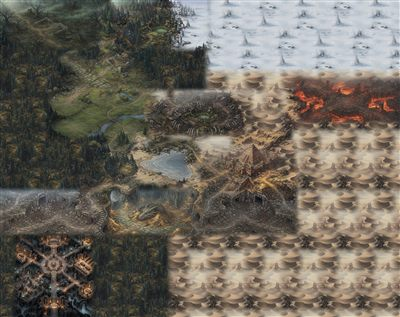
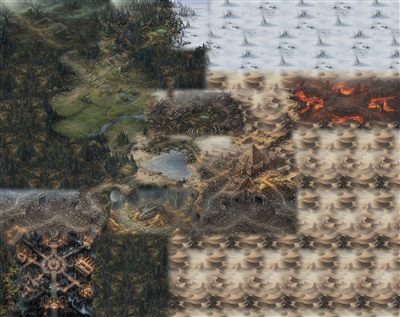
黑暗大陸：低語墓窟接縫 AI 補畫完成（兩道往下的石階接礦坑上層），20261020f
- 貼上使用者補好的接縫 15～18（對齊 0,0），大地圖圖檔 ?v=9
- 依新畫的石階重標兩個出口的可走格子，墓園左緣改成不能走（新畫的岩壁）
- 更新 ARCHITECTURE.md 第 67 節、HANDOFF.md

Changed region(s): [[0.0, 0.7098, 0.27, 0.9937], [0.21, 0.795, 0.27, 0.8801], [0.21, 0.8801, 0.27, 0.9653]]

diff --git a/屠龍勇者/index.html b/屠龍勇者/index.html
@@ -8,8 +8,8 @@
 <title>黑暗大陸</title>
 <link rel="manifest" href="manifest.json">
 <meta name="theme-color" content="#12100c">
-<link rel="icon" type="image/png" sizes="192x192" href="images/icon-192.png?v=20261020e">
-<link rel="apple-touch-icon" href="images/apple-touch-icon.png?v=20261020e">
+<link rel="icon" type="image/png" sizes="192x192" href="images/icon-192.png?v=20261020f">
+<link rel="apple-touch-icon" href="images/apple-touch-icon.png?v=20261020f">
 <meta name="apple-mobile-web-app-capable" content="yes">
 <meta name="mobile-web-app-capable" content="yes">
 <meta name="apple-mobile-web-app-status-bar-style" content="black-translucent">
@@ -67,7 +67,7 @@
     /* 標題 */
     /* 標題畫面＝使用者提供的「黑暗大陸」封面（images/cover.jpg，1000×1490，圖上已有標題字）；按鈕疊在下方 */
     #screen-title { align-items: center; justify-content: flex-end; text-align: center; padding: 24px 16px calc(20px + env(safe-area-inset-bottom)); gap: 10px;
-        background: url(images/cover.jpg?v=20261020e) center top / contain no-repeat, #000; }   /* contain：整張封面一定看得到（2026-10-12 使用者回報人物被裁掉） */
+        background: url(images/cover.jpg?v=20261020f) center top / contain no-repeat, #000; }   /* contain：整張封面一定看得到（2026-10-12 使用者回報人物被裁掉） */
     .sr-only { position: absolute; width: 1px; height: 1px; overflow: hidden; clip: rect(0 0 0 0); white-space: nowrap; }
     .title-btns { display: flex; flex-direction: column; gap: 10px; width: 240px; }
     .title-btns button { padding: 13px; font-size: 17px; }
@@ -184,7 +184,7 @@
         /* frame-notop.jpg＝frame.jpg 去掉上方拱門（原圖 y 715 以上，2026-10-15 使用者要求滿版）；頂端 25px 還有拱門殘邊，slice 跳過 */
         /* frame-nopillar.png（2026-10-19，第 54 節）：frame-notop 縮 75%、左右骷髏頭頂的符文石柱改透明（底部淡入），地圖延伸到左右邊；slice 跟著 ×0.75 */
         /* frame-clean.png：再把骷髏、法球後面的暗色階梯底（欄杆以上）去背，只留骷髏與法球（2026-10-19，第 54 節） */
-        border-image-source: url(images/frame-clean.png?v=20261020e);
+        border-image-source: url(images/frame-clean.png?v=20261020f);
         border-image-slice: 19 77 491 78 fill;
         border-image-width: 0 calc(var(--s) * 102px) calc(var(--s) * 655px) calc(var(--s) * 104px);
         border-image-repeat: stretch round;
@@ -193,7 +193,7 @@
     #frame::after {
         content: ''; position: absolute; left: 0; right: 0; bottom: calc(var(--s) * 405px); height: calc(var(--s) * 250px);
         z-index: 2; pointer-events: none;
-        background: url(images/frame-clean.png?v=20261020e) 0 calc(var(--s) * -630px) / 100% auto no-repeat;
+        background: url(images/frame-clean.png?v=20261020f) 0 calc(var(--s) * -630px) / 100% auto no-repeat;
     }
     #frame.pc::after { display: none; }
     /* 金幣、防禦、MR：經驗條正上方，左右分在等級兩側（手機原圖 y 1712～1744；PC y 870～904） */
@@ -432,10 +432,10 @@
     #frame.pc #frame-art {
         display: block; position: absolute; inset: 0; z-index: 2; pointer-events: none;
         /* frame-pc-notop：上方拱門整段拿掉、左右柱子接到頂（2026-10-11，第 19 節） */
-        background: url(images/frame-pc-notop.jpg?v=20261020e) center / 100% 100% no-repeat;
+        background: url(images/frame-pc-notop.jpg?v=20261020f) center / 100% 100% no-repeat;
         /* frame-pc-nopillar-mask：左右骷髏頭頂的石柱（x < 92、x ≥ 1908、y < 625）也遮掉，y 570～625 淡入（2026-10-19，第 54 節） */
-        -webkit-mask: url(images/frame-pc-nopillar-mask.png?v=20261020e) center / 100% 100% no-repeat;
-        mask: url(images/frame-pc-nopillar-mask.png?v=20261020e) center / 100% 100% no-repeat;
+        -webkit-mask: url(images/frame-pc-nopillar-mask.png?v=20261020f) center / 100% 100% no-repeat;
+        mask: url(images/frame-pc-nopillar-mask.png?v=20261020f) center / 100% 100% no-repeat;
     }
     #frame.pc .pillar, #frame.pc .drawer { display: none; }
     #frame.pc #panel { left: 0; right: 0; top: 0; bottom: calc(var(--s) * 278px); padding: 0; overflow: hidden; z-index: 1; }
@@ -877,45 +877,45 @@
 <div id="toast-layer"></div>
 
 <!-- 載入順序：設定 → 資料 → 玩家 → 系統 → 介面 → 進入點（換版時所有 ?v= 一起改，見 ARCHITECTURE.md） -->
-<script src="data/config.js?v=20261020e"></script>
-<script src="data/classes.js?v=20261020e"></script>
-<script src="data/skills.js?v=20261020e"></script>
-<script src="data/items.js?v=20261020e"></script>
-<script src="data/spellbook.js?v=20261020e"></script>
-<script src="data/monsters.js?v=20261020e"></script>
-<script src="data/zones.js?v=20261020e"></script>
-<script src="data/quests.js?v=20261020e"></script>
-<script src="data/resonance.js?v=20261020e"></script>
-<script src="data/player.js?v=20261020e"></script>
-<script src="data/enchant.js?v=20261020e"></script>
-<script src="data/affix.js?v=20261020e"></script>
-<script src="data/craft.js?v=20261020e"></script>
-<script src="data/maps.js?v=20261020e"></script>
-<script src="data/combat.js?v=20261020e"></script>
-<script src="data/town.js?v=20261020e"></script>
-<script src="data/guard.js?v=20261020e"></script>
-<script src="data/save.js?v=20261020e"></script>
-<script src="data/cloud.js?v=20261020e"></script>
-<script src="data/offline.js?v=20261020e"></script>
-<script src="data/ui.js?v=20261020e"></script>
-<script src="data/sfx.js?v=20261020e"></script>
-<script src="data/bgm.js?v=20261020e"></script>
-<script src="data/ui-create.js?v=20261020e"></script>
-<script src="data/ui-panels.js?v=20261020e"></script>
-<script src="data/codex.js?v=20261020e"></script>
-<script src="data/raid.js?v=20261020e"></script>
-<script src="data/clan.js?v=20261020e"></script>
-<script src="data/chat.js?v=20261020e"></script>
-<script src="data/rank.js?v=20261020e"></script>
-<script src="data/wb.js?v=20261020e"></script>
-<script src="data/market.js?v=20261020e"></script>
-<script src="data/vault.js?v=20261020e"></script>
-<script src="data/presence.js?v=20261020e"></script>
-<script src="data/ui-frame.js?v=20261020e"></script>
-<script src="data/icons.js?v=20261020e"></script>
-<script src="data/hotbar.js?v=20261020e"></script>
-<script src="data/ui-scene.js?v=20261020e"></script>
-<script src="data/pwa.js?v=20261020e"></script>
-<script src="data/main.js?v=20261020e"></script>
+<script src="data/config.js?v=20261020f"></script>
+<script src="data/classes.js?v=20261020f"></script>
+<script src="data/skills.js?v=20261020f"></script>
+<script src="data/items.js?v=20261020f"></script>
+<script src="data/spellbook.js?v=20261020f"></script>
+<script src="data/monsters.js?v=20261020f"></script>
+<script src="data/zones.js?v=20261020f"></script>
+<script src="data/quests.js?v=20261020f"></script>
+<script src="data/resonance.js?v=20261020f"></script>
+<script src="data/player.js?v=20261020f"></script>
+<script src="data/enchant.js?v=20261020f"></script>
+<script src="data/affix.js?v=20261020f"></script>
+<script src="data/craft.js?v=20261020f"></script>
+<script src="data/maps.js?v=20261020f"></script>
+<script src="data/combat.js?v=20261020f"></script>
+<script src="data/town.js?v=20261020f"></script>
+<script src="data/guard.js?v=20261020f"></script>
+<script src="data/save.js?v=20261020f"></script>
+<script src="data/cloud.js?v=20261020f"></script>
+<script src="data/offline.js?v=20261020f"></script>
+<script src="data/ui.js?v=20261020f"></script>
+<script src="data/sfx.js?v=20261020f"></script>
+<script src="data/bgm.js?v=20261020f"></script>
+<script src="data/ui-create.js?v=20261020f"></script>
+<script src="data/ui-panels.js?v=20261020f"></script>
+<script src="data/codex.js?v=20261020f"></script>
+<script src="data/raid.js?v=20261020f"></script>
+<script src="data/clan.js?v=20261020f"></script>
+<script src="data/chat.js?v=20261020f"></script>
+<script src="data/rank.js?v=20261020f"></script>
+<script src="data/wb.js?v=20261020f"></script>
+<script src="data/market.js?v=20261020f"></script>
+<script src="data/vault.js?v=20261020f"></script>
+<script src="data/presence.js?v=20261020f"></script>
+<script src="data/ui-frame.js?v=20261020f"></script>
+<script src="data/icons.js?v=20261020f"></script>
+<script src="data/hotbar.js?v=20261020f"></script>
+<script src="data/ui-scene.js?v=20261020f"></script>
+<script src="data/pwa.js?v=20261020f"></script>
+<script src="data/main.js?v=20261020f"></script>
 </body>
 </html>

diff --git a/屠龍勇者/data/ui-scene.js b/屠龍勇者/data/ui-scene.js
@@ -101,7 +101,7 @@ const SCENE_BGS = {
     // 2026-10-18 使用者改成「5 個真的地圖合併」：海灘＝低語海岸、草原與古泉＝迷霧古林、廢村＝沉船海灣、沼澤＝紫霧遺跡；
     // 走進別區就自動換成那個地圖（怪物、等級、掉落跟著換，sceneEnterZone），這幾個地圖共用同一個畫面（sceneKey 'zone:wild'）
     wild: {
-        src: 'images/maps/wild.jpg?v=8', mini: 'images/maps/wild-mini.jpg?v=8', occ: 'images/maps/wild-occ.png', w: 188,   // 2026-10-19 往東加熔火煉獄（第 57 節），141 → 188 欄   // ?v=：圖改過就加 1（SW 會先給快取的舊圖）
+        src: 'images/maps/wild.jpg?v=9', mini: 'images/maps/wild-mini.jpg?v=9', occ: 'images/maps/wild-occ.png', w: 188,   // 2026-10-19 往東加熔火煉獄（第 57 節），141 → 188 欄   // ?v=：圖改過就加 1（SW 會先給快取的舊圖）
         h: 149, start: [63, 78], big: true,   // 2026-10-18 往南加一排（第 49 節）：腐朽礦坑・上層／沉眠龍窟／腐朽礦坑・深層，88 → 112 列；2026-10-20 礦坑上層南邊加低語墓窟（第 67 節），112 → 149 列
         // 野外 NPC（第 55 節）：站的格子不能走；點名牌對話（act 呼叫 ui-panels.js 的 openKeeper）；to＝要送去的地圖；front＝「飛到 NPC 面前」的落點
         fieldNpcs: [
@@ -147,12 +147,12 @@ const SCENE_BGS = {
             [141, 39, 151, 43], [150, 41, 154, 45], [166, 38, 186, 43], [165, 41, 169, 45],     // 左上、右上遺跡平台與階梯
             [140, 51, 152, 57], [149, 50, 155, 53], [168, 51, 186, 57], [166, 50, 170, 53], [182, 46, 187, 52],   // 左下、右下岩地、右邊岩島（西邊接焦骨峽谷沙丘）
             [36, 39, 44, 41], [70, 44, 73, 52],                                                  // 接縫補畫後：村落往草原的石板路、草原與骨骸地之間的空地（第 58 節）
-            // 低語墓窟（第 67 節）：北邊兩個出口（接礦坑上層）、左上房間＋西北石橋、神殿平台＋北階梯、中央圓形廣場、西邊骨龕房＋西南石橋＋墓園、東北石橋＋右上寶物房、東邊石棺廳、東南石橋＋圓形墓室、往南的中軸路與階梯
-            [8, 108, 10, 110], [41, 108, 43, 110], [8, 111, 14, 113], [10, 113, 12, 114], [12, 114, 14, 115], [13, 115, 16, 116], [15, 116, 18, 117],
+            // 低語墓窟（第 67 節）：北邊兩個往下的石階（接礦坑上層，照接縫補畫後的圖）、西北石橋、神殿平台＋北階梯、中央圓形廣場、西邊骨龕房＋西南石橋＋墓園、東北石橋＋右上寶物房、東邊石棺廳、東南石橋＋圓形墓室、往南的中軸路與階梯
+            [8, 108, 10, 108], [7, 109, 9, 109], [6, 110, 8, 110], [5, 111, 7, 111], [4, 112, 8, 113], [8, 113, 11, 114], [42, 107, 44, 108], [41, 109, 44, 110], [40, 111, 43, 111], [10, 113, 12, 114], [12, 114, 14, 115], [13, 115, 16, 116], [15, 116, 18, 117],
             [17, 117, 19, 118], [18, 118, 21, 120], [19, 112, 22, 112], [28, 112, 29, 112], [19, 113, 29, 114], [24, 115, 25, 118], [23, 118, 26, 119],
             [21, 120, 29, 120], [20, 121, 30, 121], [19, 122, 31, 126], [20, 127, 30, 127], [21, 128, 29, 128], [7, 119, 14, 122], [15, 121, 19, 122],
-            [16, 122, 19, 123], [14, 123, 17, 124], [12, 124, 15, 125], [9, 125, 13, 126], [6, 126, 10, 127], [6, 127, 18, 138], [17, 127, 21, 129],
-            [30, 119, 32, 120], [31, 118, 33, 119], [32, 117, 34, 118], [33, 116, 35, 117], [34, 115, 36, 116], [35, 114, 37, 115], [36, 111, 43, 114],
+            [16, 122, 19, 123], [14, 123, 17, 124], [12, 124, 15, 125], [9, 125, 13, 126], [9, 126, 10, 127], [9, 127, 18, 138], [17, 127, 21, 129],
+            [30, 119, 32, 120], [31, 118, 33, 119], [32, 117, 34, 118], [33, 116, 35, 117], [34, 115, 36, 116], [35, 114, 37, 115], [37, 112, 43, 114],
             [31, 121, 35, 122], [35, 120, 43, 123], [37, 124, 43, 129], [28, 127, 31, 129], [30, 129, 33, 131], [32, 131, 35, 133], [34, 132, 37, 134],
             [37, 134, 42, 139], [24, 127, 26, 148], [27, 135, 30, 136], [30, 134, 33, 136], [33, 133, 37, 135], [21, 142, 29, 143],
         ],
@@ -169,8 +169,8 @@ const SCENE_BGS = {
             [92, 80, 95, 84], [49, 84, 50, 85], [138, 43, 140, 46],                                  // 接縫補畫後新畫的碎石堆、路上大石、流進沙丘的熔岩（第 58 節）
             [57, 42, 58, 43], [58, 44, 61, 46], [61, 46, 63, 47],                                   // 接縫補畫第二批：草原上新畫的小溪（木橋可走）
             [67, 66, 70, 67],                                                                        // 接縫補畫第三批：海灘上方新畫的小水窪
-            // 低語墓窟：神殿石棺與雕像、廣場北邊雕像、中央祭壇、廣場兩側雕像、骨龕房石棺、寶箱、石棺廳石棺、墓園枯樹與鐵欄、圓形墓室石棺與石柱
-            [23, 112, 27, 112], [24, 119, 25, 119], [23, 122, 26, 126], [21, 122, 21, 124], [28, 122, 28, 124], [9, 119, 11, 120], [40, 112, 42, 113], [38, 113, 38, 114],
+            // 低語墓窟：神殿石棺與雕像、廣場北邊雕像、中央祭壇、廣場兩側雕像、骨龕房石棺、石棺廳石棺、墓園枯樹與鐵欄、圓形墓室石棺與石柱
+            [23, 112, 27, 112], [24, 119, 25, 119], [23, 122, 26, 126], [21, 122, 21, 124], [28, 122, 28, 124], [9, 119, 11, 120], [38, 113, 38, 114],
             [37, 123, 39, 124], [40, 121, 42, 122], [40, 125, 42, 127], [9, 131, 11, 134], [13, 136, 17, 136], [40, 135, 42, 136], [38, 135, 38, 137],
         ],
     },

diff --git a/屠龍勇者/data/config.js b/屠龍勇者/data/config.js
@@ -1,6 +1,6 @@
 // 屠龍勇者：全域設定、常數、共用小工具（最先載入，不依賴其他檔案）
 const GAME_TITLE = '黑暗大陸';   // 遊戲名稱（2026-10-12 由「屠龍勇者」改名；資料夾與網址不變）
-const GAME_VERSION = '20261020e';
+const GAME_VERSION = '20261020f';
 const BOSS_MATERIAL_DROP_P = 0.001; // BOSS 材料固定掉落率 0.1%，不受異界掉落加成影響
 
 // 與凡塵修仙傳同網域，localStorage 共用，key 一定要有 dragonSlayer_ 前綴

diff --git a/屠龍勇者/HANDOFF.md b/屠龍勇者/HANDOFF.md
@@ -5,8 +5,7 @@
 
 ## 1. 現況
 
-- **20261020e**：低語墓窟（Lv.8～18）改用使用者給的地下墓穴圖，併入大地圖、放在腐朽礦坑・上層正南方（大地圖 188×149 格，`wild.jpg?v=8`）；北邊兩個出口接礦坑上層，怪物／掉落／任務不變（第 67 節）。
-  **待使用者**：用 AI 補畫墓窟接縫 `tools/bigmap/seams/todo/15-mine-crypt-w／16-mine-crypt-e／17-crypt-forest-w／18-crypt-forest-e.png`（洋紅色區重畫；15／16 的兩個出口要畫成往下的石階），存進 `seams/fixed/<id>.jpg` 後重跑 `build-map.ps1`。
+- **20261020f**：低語墓窟（Lv.8～18）改用使用者給的地下墓穴圖，併入大地圖、放在腐朽礦坑・上層正南方（大地圖 188×149 格，`wild.jpg?v=9`）；北邊兩道 AI 補畫的石階接礦坑上層，怪物／掉落／任務不變；接縫 15～18 已補完（第 67 節）。
 
 - 本機待驗收 **20261020d**：全部 26 種 BOSS 材料（含四龍鱗、永夜之魂、十王材料）固定 0.1% 掉落，不受異界加成；成功後數量維持原設定，圖鑑顯示機率（第 66 節）。
 
@@ -16,7 +15,7 @@
 
 - 線上 **`20261019t`**：路引改成路邊木頭路牌（使用者從樣本 A～D 選 D，第 63 節）。線上 **`20261019s`**：手機狀態欄／快捷欄閃爍修正（`ui.js` 的 `setHtmlStable`，第 62 節）。上一版 **`20261019r`** 已上線（防改檔第 2 波，第 60 節：交易所門檻、存檔加密簽章、雲端存檔簽章、記憶體偽裝、發佈版混淆；第 61 節：聊天依活躍程度輪詢、交易所列表快取，省 Supabase 傳輸量）。前一版 `20261019q`（圓形小地圖＋按 M／點小地圖開全世界地圖，第 59 節）已上線。
 - Supabase 免費方案每月傳輸量約 5GB（整個遊戲共用），估計適合每天幾百人；人更多要考慮 Pro（每月 25 美元）。
-- 大地圖接縫：13 條全部補完；第 67 節新增 15～18 四條（低語墓窟）待使用者補畫。還有幾處淡淡的霧（綠洲兩個角、熔火煉獄上下緣、金字塔右緣）可再補，使用者想做再切圖。
+- 大地圖接縫：13 條全部補完；第 67 節新增 15～18 四條（低語墓窟）也已補完。還有幾處淡淡的霧（綠洲兩個角、熔火煉獄上下緣、金字塔右緣）可再補，使用者想做再切圖。
 - 使用者存 AI 圖的習慣：存到 `images\maps\<id>.jfif`（或 `.png.jfif`），要搬到 `tools\bigmap\seams\fixed\<id>.jpg`（別留在 images，會被發佈）。
 - 網址：`https://k559610142-art.github.io/-username-.github.io-/屠龍勇者/`（repo `k559610142-art/-username-.github.io-`，GitHub Pages 發佈 `main`）。
 - 已完成的系統（詳見 `ARCHITECTURE.md` 各節）：12 職業（都有人物模型與立繪）＋職業故事／任務線、天堂原版經驗表、衝裝、暗黑式詞綴、

diff --git a/屠龍勇者/ARCHITECTURE.md b/屠龍勇者/ARCHITECTURE.md
@@ -1913,3 +1913,12 @@ python3 tools/cut-sprites.py tools/sprite-src/mage-walk.json --preview 預覽.pn
   另外修正 `seam-cut.ps1` 第 22 行兩個敘述黏在同一行（存 orig 圖與 `$g = …`）的語法錯誤，以前那版跑不起來。
 - 驗證（本機）：從低語港傳送到低語墓窟 → 大地圖、出生在廣場南邊、區域「低語墓窟」、怪是侏儒戰士等墓窟的怪；從墓窟走西北出口到礦坑上層（地圖換 gludio1）、再走東北出口回墓窟（換回 islandDungeon）；
   掛機 20 秒有擊殺、怪全部生在墓窟範圍（418 次取樣 0 次在外面）；手機 375×812 世界地圖看得到低語墓窟與兩個出口；`node tools/build.js` 的 dist 能建角、傳送到墓窟、畫面正常。Console 只有預覽環境註冊 SW 的已知訊息。
+- **接縫補畫完成**（版本 `20261020f`）：使用者用 AI 補好 15～18（2048×2048，存成 `todo/<id>.jfif`，複製成 `fixed/<id>.jpg`），`seam-check.ps1` 四張最佳位移都是 0,0（差異 7.2～11.3）。重跑 `build-map.ps1`、`build-occ.ps1`，圖 `?v=9`。
+  （同一張 15 號使用者先後生了兩版讓我選：第一版整張重畫、礦坑和墓窟都換掉，差異 49.7 且位移 16,20，不能用；用的是保留原圖、只畫交界的那版。）
+  可走範圍照新畫的東西改：
+  - 西邊出口：AI 在礦坑邊緣畫了一道往左下走的寬石階（兩旁石柱、火把），原本的左上房間被畫成岩壁 → 出口改成 [8,108,10,108]、[7,109,9,109]、[6,110,8,110]、[5,111,7,111]、底部平台 [4,112,8,113]、接西北石橋 [8,113,11,114]；拿掉 [8,108,10,110] 與房間 [8,111,14,113]。
+  - 東邊出口：石階從礦坑往左下走到寶物房那塊亮平台，寶箱被石階蓋掉 → 出口改成 [42,107,44,108]、[41,109,44,110]、[40,111,43,111]，平台 [36,111,43,114] 改 [37,112,43,114]，拿掉 [41,108,43,110] 與寶箱擋格 [40,112,42,113]。
+  - 左側接縫把墓園最左邊 x 6～8 畫成長青苔的岩壁 → 墓園 [6,127,18,138] 改 [9,127,18,138]、西南石橋尾 [6,126,10,127] 改 [9,126,10,127]。
+  - 可走 10026 格全部走得到（墓窟 817 格）。神殿後牆上方被畫出一個像門洞的黑色開口，不能走（使用者知道，沒有要求重畫）。
+  驗證：本機從墓窟廣場走西邊石階上到礦坑（9,105）、走回廣場、再走東邊石階上到礦坑（42,105），地圖依序切換；角色站在西邊石階上截圖，路牌「腐朽礦坑・上層」在石階旁；dist 版進墓窟正常；Console 只有預覽環境註冊 SW 的已知訊息。
+  走石階時路徑會沿著礦坑第 108 列斜切，可能在交界來回切換一次地圖（訊息「📍 進入」多一則），不影響遊戲。
